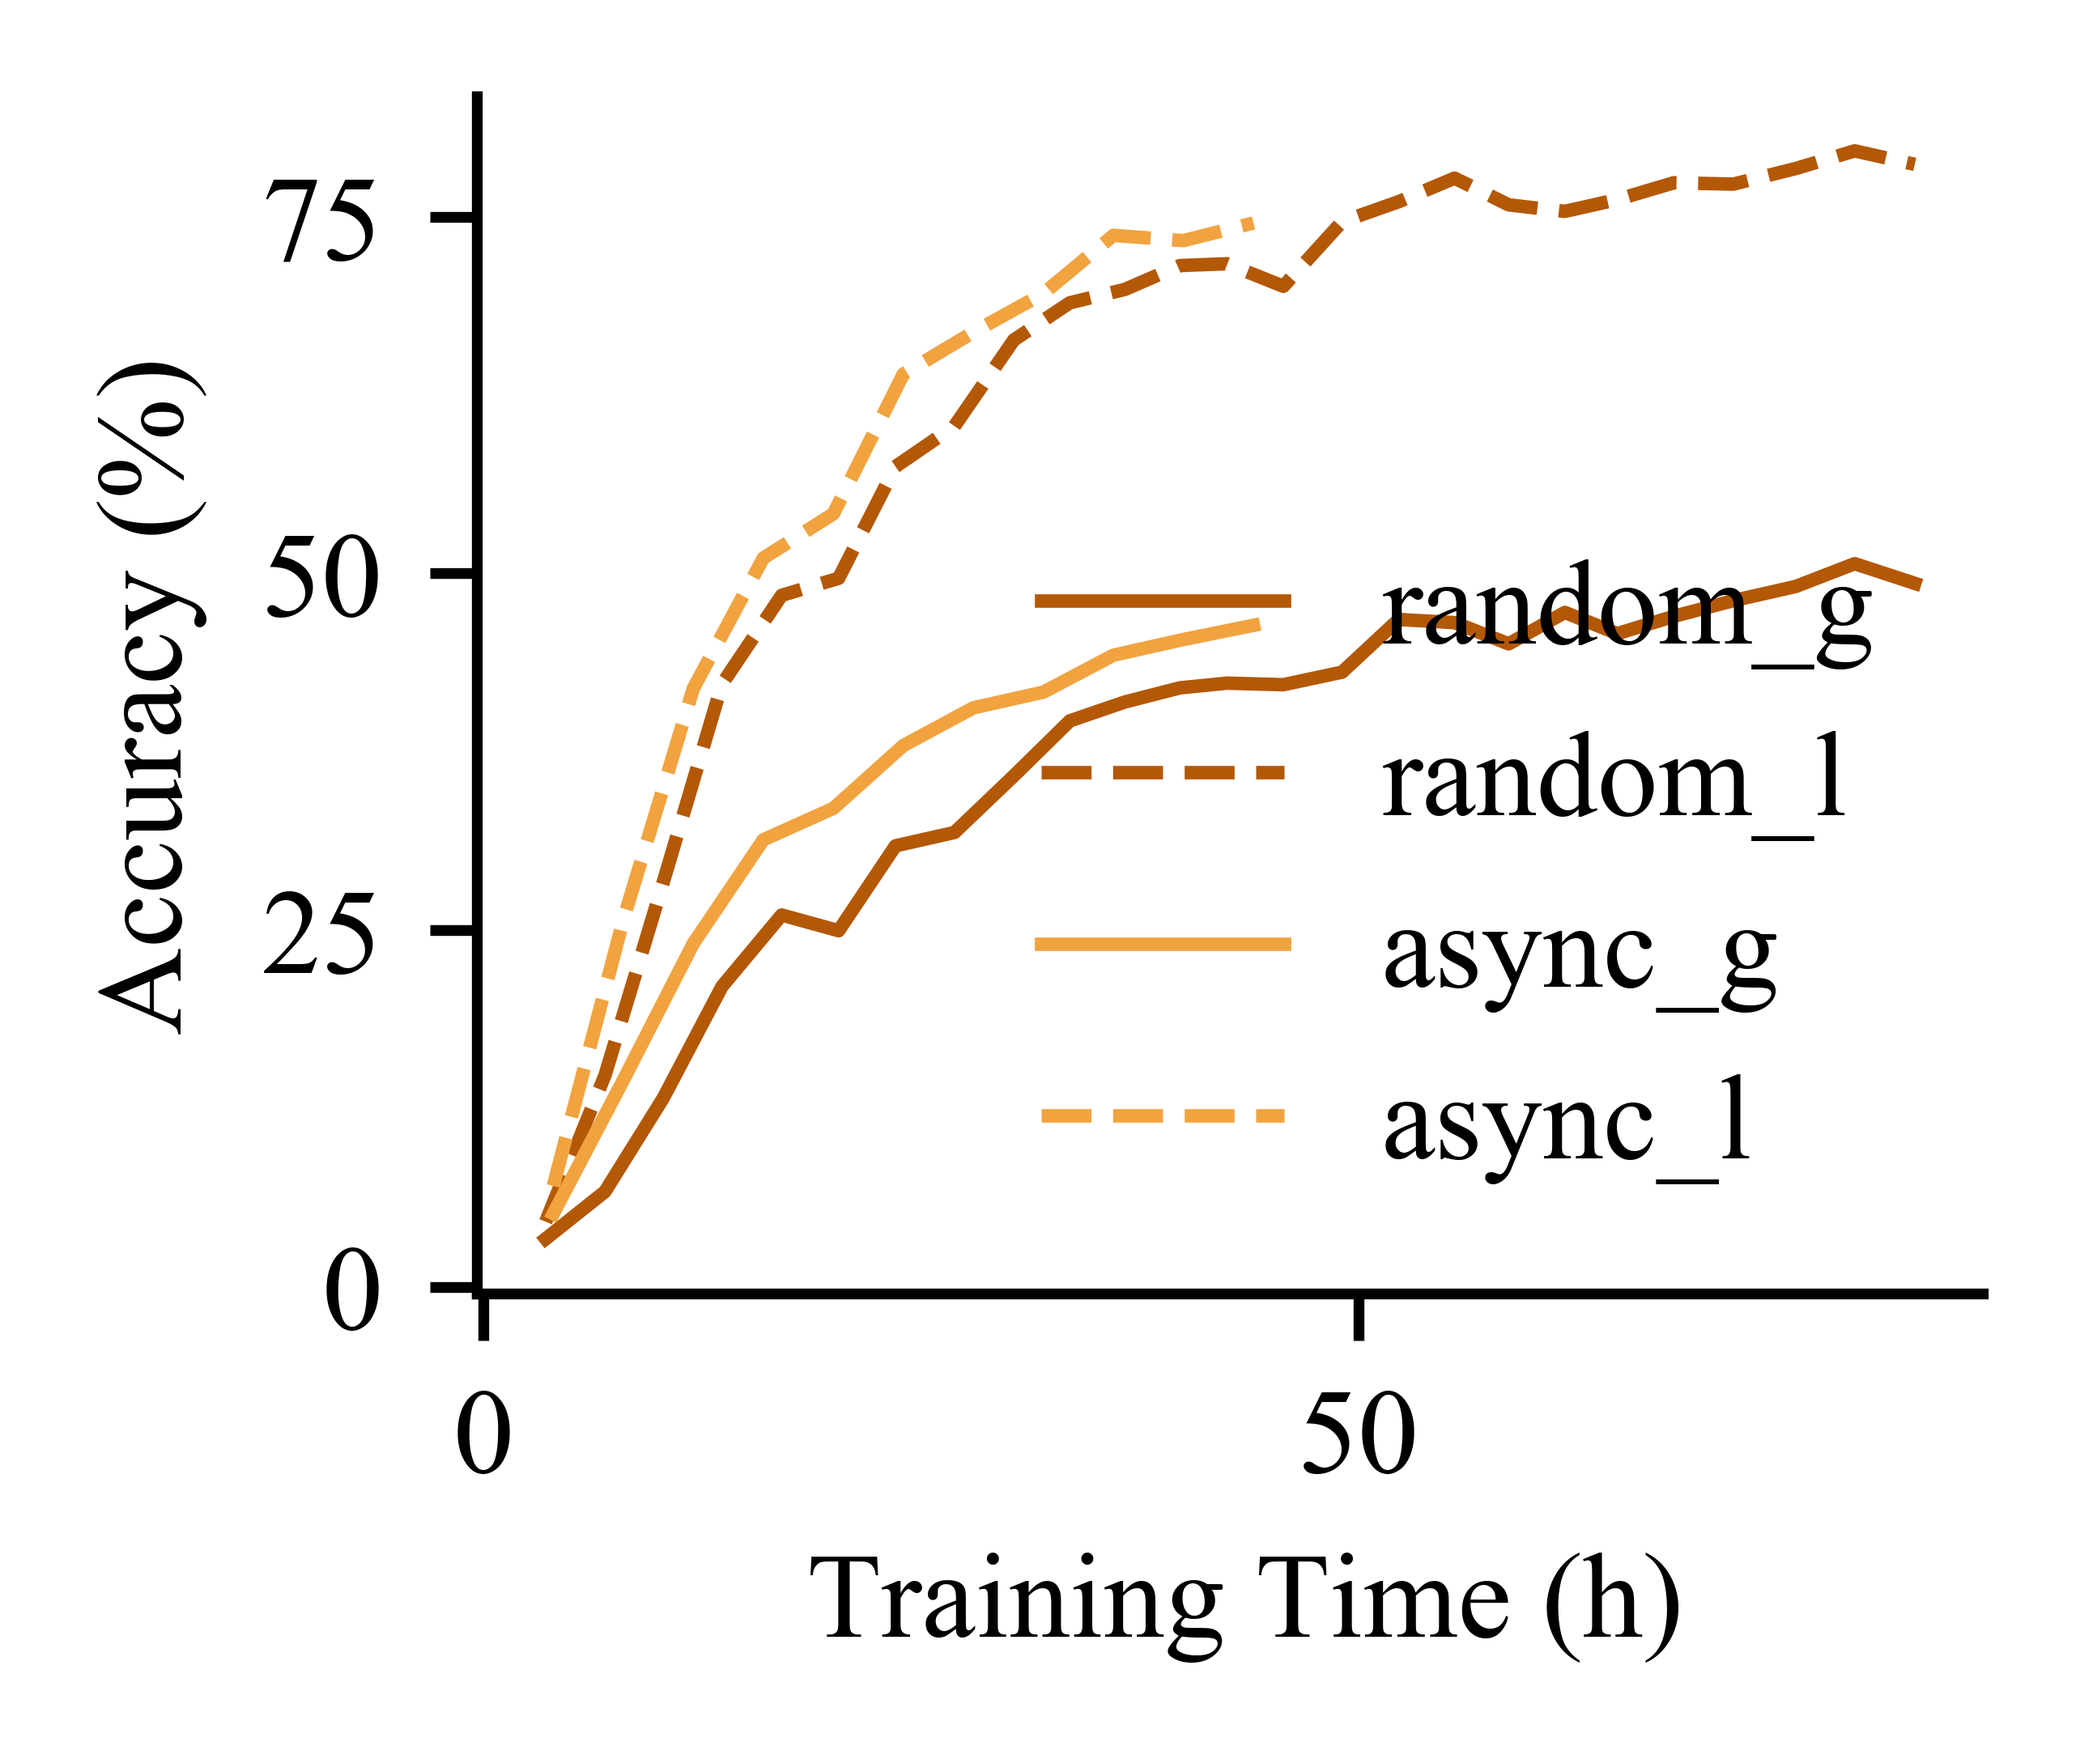
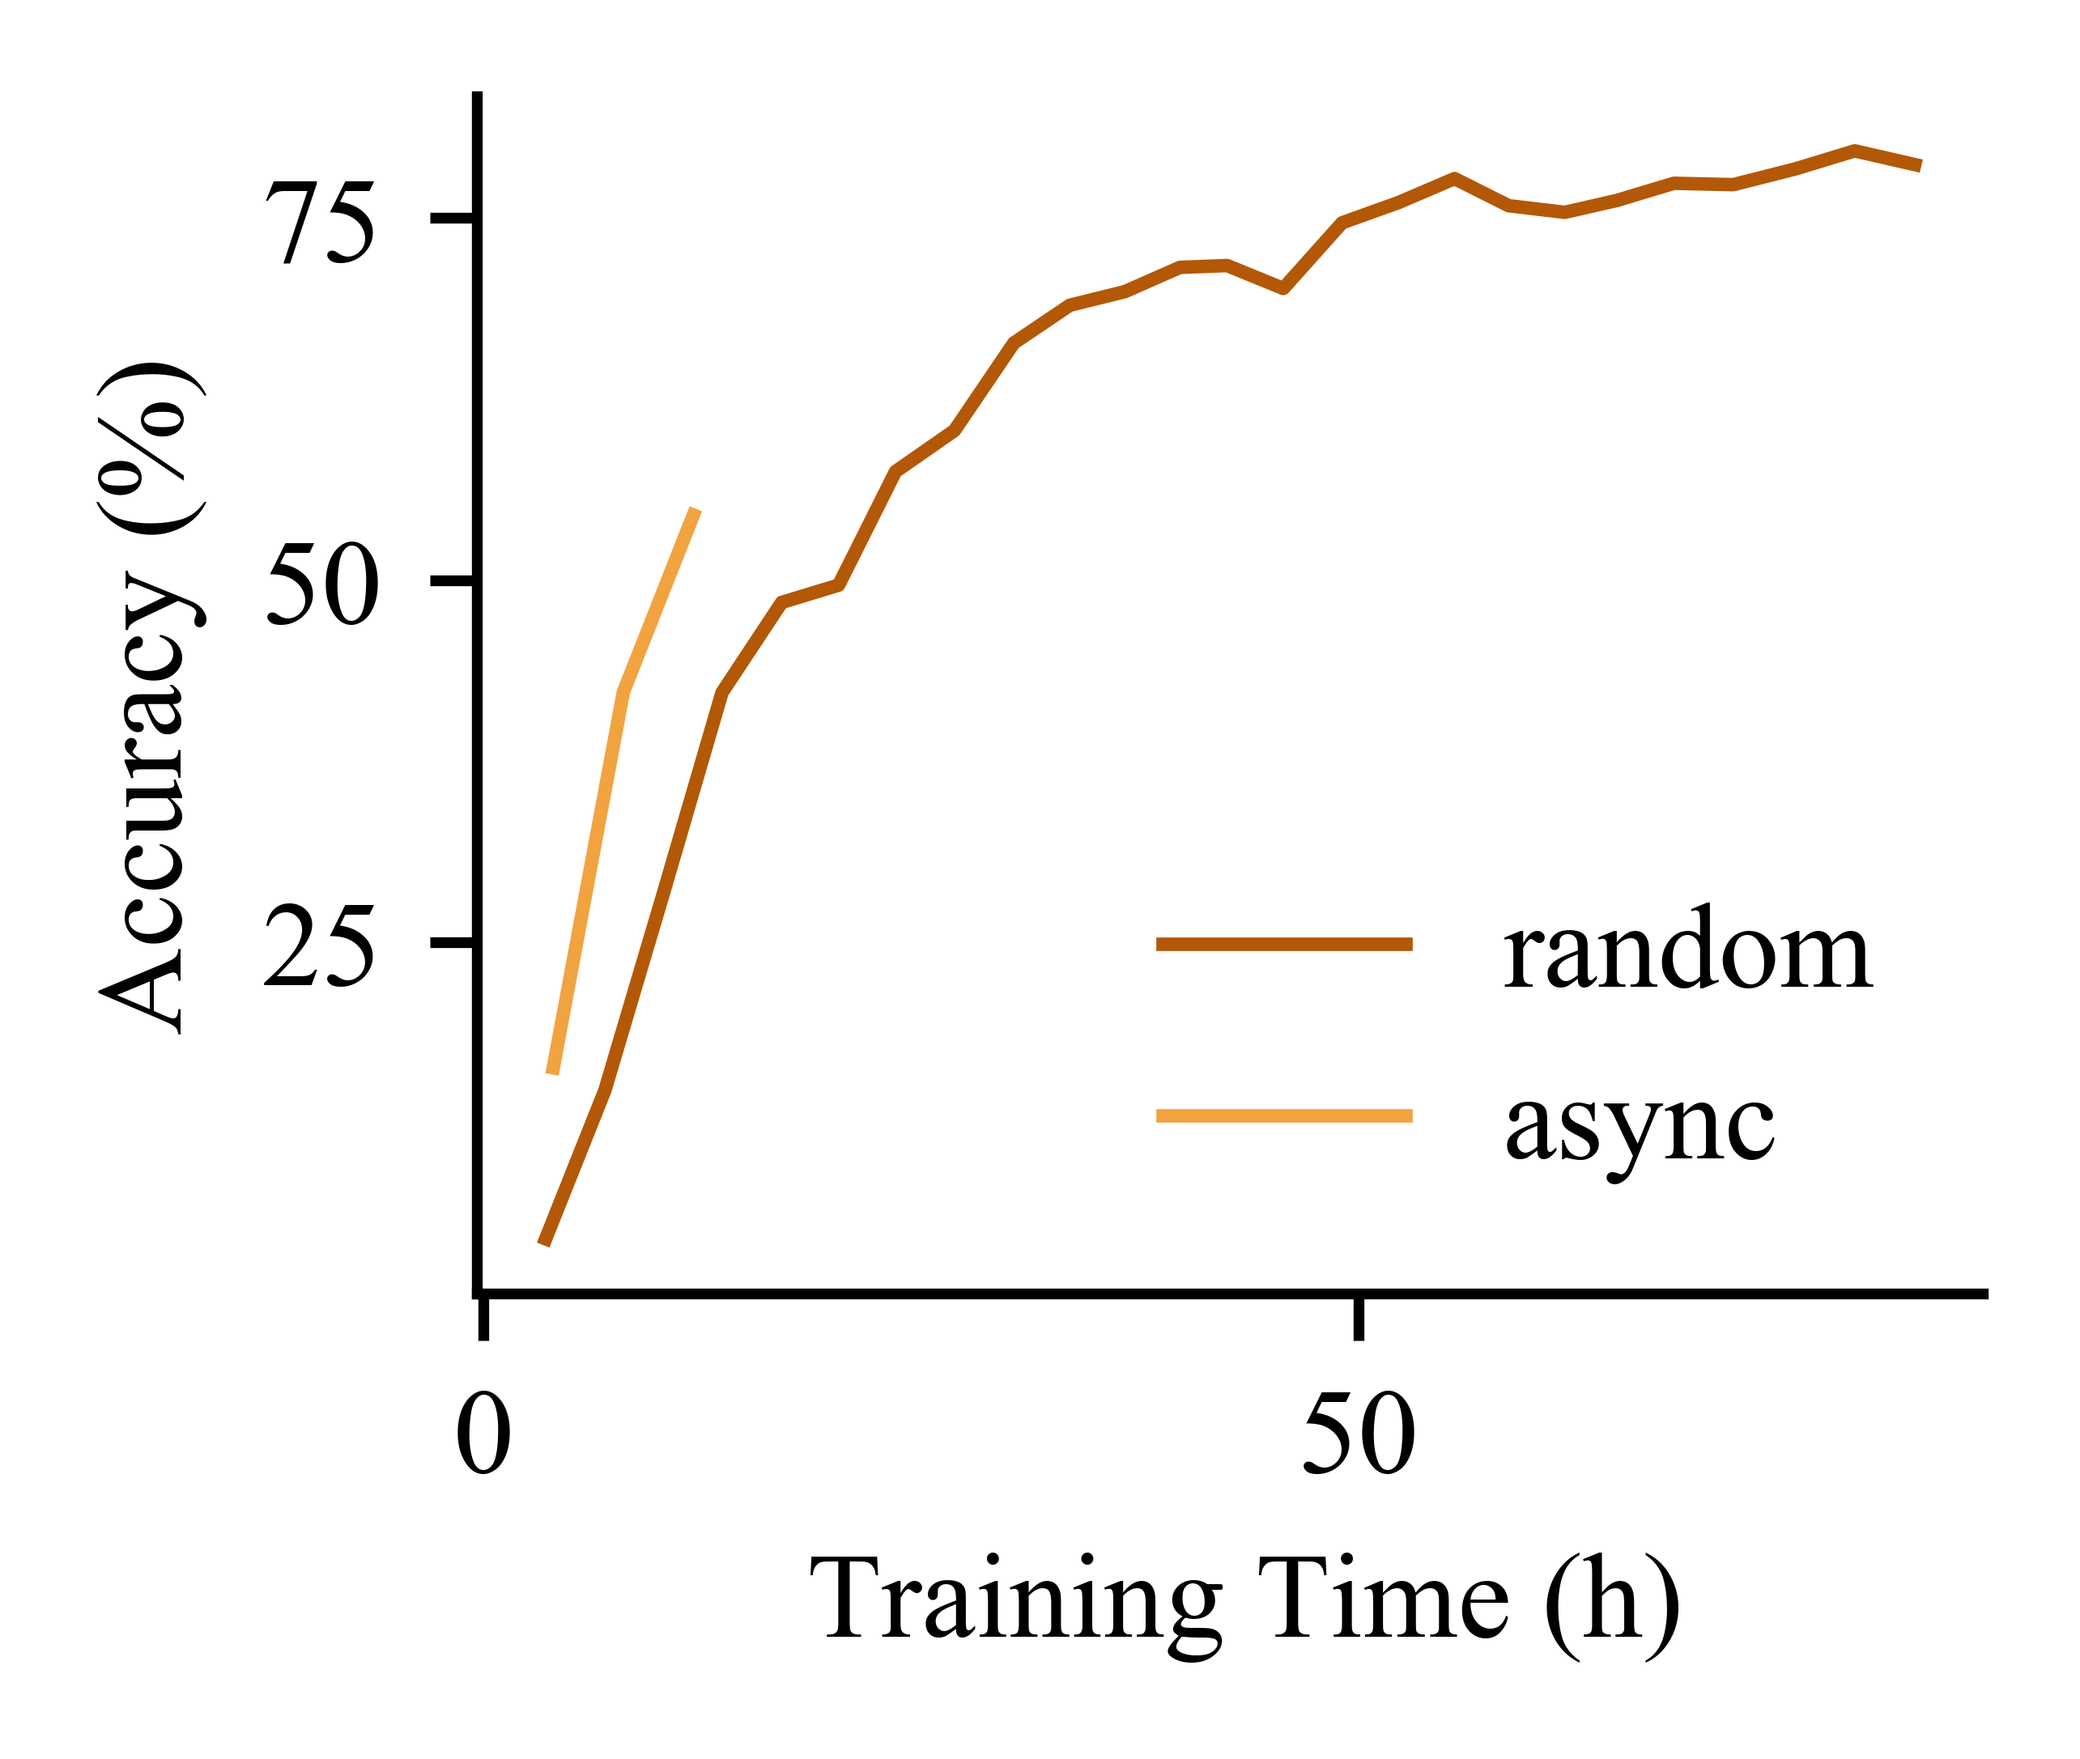
ns

diff --git a/core/evals/my_perf_2.py b/core/evals/my_perf_2.py
@@ -1,0 +1,149 @@
+import matplotlib.pyplot as plt
+import numpy as np
+import os
+import sys
+from collections import defaultdict
+from datetime import datetime
+
+log_dir = os.path.join(os.getcwd(), 'history')
+focus_str_in_agg = "FL Local Testing"
+focus_str_in_exe = "(Local) After aggregation"
+
+
+def within_the_range(ts_str, sts_str, ets_str):
+    ts = datetime.strptime(ts_str, "(%m-%d) %H:%M:%S")
+    sts = None
+    if sts_str:
+        sts = datetime.strptime(sts_str, "(%m-%d) %H:%M:%S")
+    ets = datetime.strptime(ets_str, "(%m-%d) %H:%M:%S")
+
+    if sts:
+        if sts <= ts <= ets:
+            return True
+        else:
+            return False
+    else:
+        if ts <= ets:
+            return True
+        else:
+            return False
+
+
+def extract_executors(folder, start_timestamp, end_timestamp):
+
+    base_path = os.path.join(log_dir, folder, 'executor')
+    file_paths = []
+    for file_path in os.listdir(base_path):
+        if 'log' in file_path:
+            file_paths.append(file_path)
+
+    result = []
+    for file_path in file_paths:
+        log_path = os.path.join(base_path, file_path)
+
+        with open(log_path, 'r') as f:
+            ls = f.readlines()
+
+        new_ls = []
+        for l in ls:
+            if focus_str_in_exe in l:
+                new_ls.append(l)
+
+        useful_ls = []
+        for l in new_ls:
+            idx = l.find('INFO')
+            timestamp = l[:idx-1]
+            if within_the_range(timestamp, start_timestamp, end_timestamp):
+                useful_ls.append(l)
+
+        for l in useful_ls:
+            idx = l.find("test_accuracy") + len("test_accuracy ")
+            result.append(float(l[idx:].split('%')[0]))
+
+    return result
+
+
+def my_cdf(datas, labels, xlabel, ylabel, path):
+    fig = plt.figure(figsize=(2, 1.6), dpi=1200)
+    ax = fig.add_subplot(111)
+
+    colors = ['#b35806','#f1a340', '#998ec3','#542788']
+    linetype = ['-', '-.', '--', ':']
+
+    for idx, data in enumerate(datas):
+        data_sorted = sorted(data)
+        p = 1. * np.arange(len(data)) / (len(data) - 1)
+        ax.plot(data_sorted, p, linetype[idx%len(linetype)], label=labels[idx], color=colors[idx%len(colors)])
+
+    ax.set_xlabel(xlabel)
+    ax.set_ylabel(ylabel)
+    ax.set_xlim(0, 100)
+    ax.spines['right'].set_visible(False)
+    ax.spines['top'].set_visible(False)
+    ax.legend(loc='best', fontsize=6)
+    plt.savefig(path, bbox_inches='tight')
+
+
+def run(task):
+    personalized = "meta"
+    task_dict = {
+        f"{task}_random_{personalized}_all_test": {
+            "virtual_clock": -1,
+            "label": "fed_sync"
+        },
+        f"{task}_async_{personalized}_all_test_100_60": {
+            "virtual_clock": -1,
+            "label": "fed_async"
+        }
+    }
+
+    test_accs_list = []
+    label_list = []
+    for folder, d in task_dict.items():
+        agg_path = os.path.join(log_dir, folder, 'aggregator', 'log_1')
+        with open(agg_path, 'r') as f:
+            lines = f.readlines()
+
+        focus_lines = []
+        for l in lines:
+            if focus_str_in_agg in l:
+                focus_lines.append(l)
+
+        virtual_clock_timestamp_dict = {}
+        for f in focus_lines:
+            idx = f.find('virtual_clock')
+            virtual_clock_str = int(f[idx + len('virtual_clock: '):].split('.')[0])
+            idx = f.find('INFO')
+            time_stamp_str = f[:idx - 1]
+            virtual_clock_timestamp_dict[virtual_clock_str] = time_stamp_str
+
+        required_virtual_clock = d["virtual_clock"]
+        temp = sorted(virtual_clock_timestamp_dict.keys())
+        if d["virtual_clock"] < 0:
+            required_virtual_clock = temp[-1]
+        end_timestamp = virtual_clock_timestamp_dict[required_virtual_clock]
+
+        end_timestamp_idx = None
+        for idx, virtual_clock in enumerate(temp):
+            if virtual_clock == required_virtual_clock:
+                end_timestamp_idx = idx
+                break
+        assert end_timestamp_idx
+
+        start_timestamp_idx = end_timestamp_idx - 1
+        if start_timestamp_idx < 0:
+            start_timestamp = None
+        else:
+            start_timestamp = virtual_clock_timestamp_dict[temp[start_timestamp_idx]]
+
+        test_accs = extract_executors(folder, start_timestamp, end_timestamp)
+        test_accs_list.append(test_accs)
+        label_list.append(d["label"])
+
+    save_path = os.path.join(log_dir, 'converge_acc_cdf.png')
+    y_label = "CDF across clients"
+    x_label = "Local Testing Accuracy (%)"
+    my_cdf(test_accs_list, label_list, x_label, y_label, save_path)
+
+
+run(sys.argv[1])

diff --git a/core/evals/my_perf.py b/core/evals/my_perf.py
@@ -17,15 +17,19 @@ def plot_line(datas, xs, linelabels=None, label=None, y_label="CDF", name="my_pl
     ax = fig.add_subplot(111)
 
     colors = ['#b35806', '#f1a340', '#998ec3', '#542788']
-    linetype = ['-', '--']
+    linetype = ['-']
+    # linetype = ['-', '--']
     # markertype = ['o', '|', '+', 'x']
     #
     # X_max = float('inf')
 
     X = [i for i in range(len(datas[0]))]
     for i, data in enumerate(datas):
+        # plt.plot(xs[i], data, linetype[i % len(linetype)],
+        #          color=colors[(i // 2) % len(colors)], label=linelabels[i],
+        #          linewidth=1.)
         plt.plot(xs[i], data, linetype[i % len(linetype)],
-                 color=colors[(i // 2) % len(colors)], label=linelabels[i],
+                 color=colors[i % len(colors)], label=linelabels[i],
                  linewidth=1.)
         # X_max = min(X_max, max(xs[i]))
 
@@ -92,11 +96,11 @@ def plot_line_2(datas, xs, linelabels=None, label=None, y_label="CDF", name="my_
     plt.savefig(name, bbox_inches='tight')
 
 def run(task_prefix):
-    personalized = "meta" # "meta" or "none" or "ditto"
+    personalized = "ditto" # "meta" or "none" or "ditto"
     task_dict = {
         f"random_{personalized}_all_test": "random",
         # f"oort_{personalized}_all_test": "oort",
-        f"async_{personalized}_all_test_100": "async"
+        f"async_{personalized}_all_test_100_60": "async"
     }
 
     # x-axis
@@ -115,12 +119,16 @@ def run(task_prefix):
     label_list_duration_no_async = []
 
     for k, v in task_dict.items():
+        # if v not in ["async"]:
+        #     label_list_duration_no_async.append(v)
+        #     label_list_no_async.append(f"{v}_g")
+        #     label_list_no_async.append(f"{v}_l")
+        # label_list.append(f"{v}_g")
+        # label_list.append(f"{v}_l")
         if v not in ["async"]:
             label_list_duration_no_async.append(v)
-            label_list_no_async.append(f"{v}_g")
-            label_list_no_async.append(f"{v}_l")
-        label_list.append(f"{v}_g")
-        label_list.append(f"{v}_l")
+            label_list_no_async.append(f"{v}")
+        label_list.append(f"{v}")
 
         testing_acc_lines = []
         testing_local_acc_lines = []
@@ -140,22 +148,22 @@ def run(task_prefix):
                 training_duration_lines.append(line)
 
         # global testing accuracy
-        round_list = []
-        acc_list = []
-        hour_list = []
-        for f in testing_acc_lines:
-            epoch = f[f.find("epoch")+7:].split(',')[0]
-            top1_acc_str = f[f.find("top_1")+7:].split(' ')[0]
-            virtual_clock_str = f[f.find("virtual_clock")+15:].split(',')[0]
-            round_list.append(int(epoch))
-            acc_list.append(float(top1_acc_str))
-            hour_list.append(float(virtual_clock_str) / 60 / 60)
-
-        acc_list_list.append(acc_list)
-        if v not in ["async"]:
-            testing_round_list_list_no_sync.append(round_list)
-            acc_list_list_no_async.append(acc_list)
-        testing_hour_list_list.append(hour_list)
+        # round_list = []
+        # acc_list = []
+        # hour_list = []
+        # for f in testing_acc_lines:
+        #     epoch = f[f.find("epoch")+7:].split(',')[0]
+        #     top1_acc_str = f[f.find("top_1")+7:].split(' ')[0]
+        #     virtual_clock_str = f[f.find("virtual_clock")+15:].split(',')[0]
+        #     round_list.append(int(epoch))
+        #     acc_list.append(float(top1_acc_str))
+        #     hour_list.append(float(virtual_clock_str) / 60 / 60)
+        #
+        # acc_list_list.append(acc_list)
+        # if v not in ["async"]:
+        #     testing_round_list_list_no_sync.append(round_list)
+        #     acc_list_list_no_async.append(acc_list)
+        # testing_hour_list_list.append(hour_list)
 
         # average local testing accuracy
         round_local_list = []
